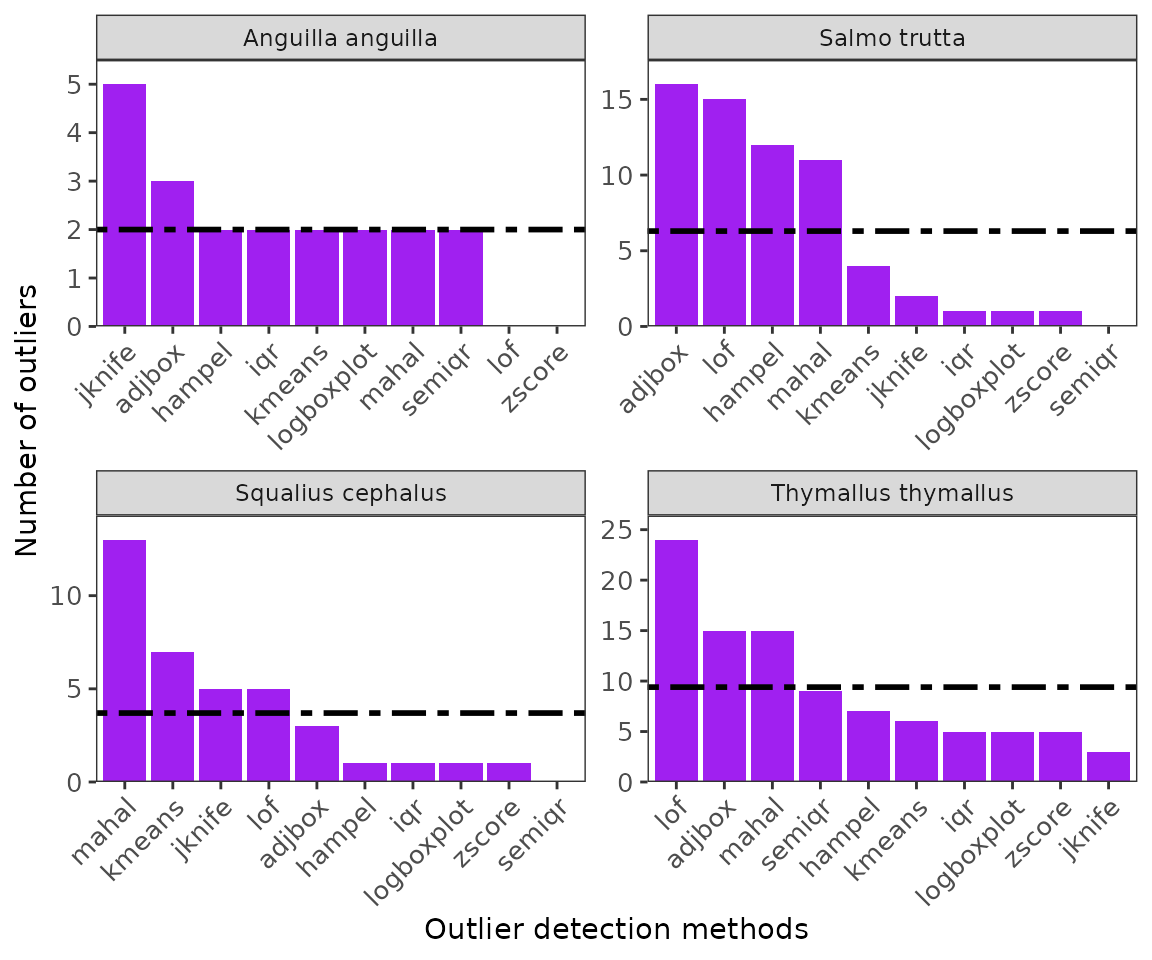
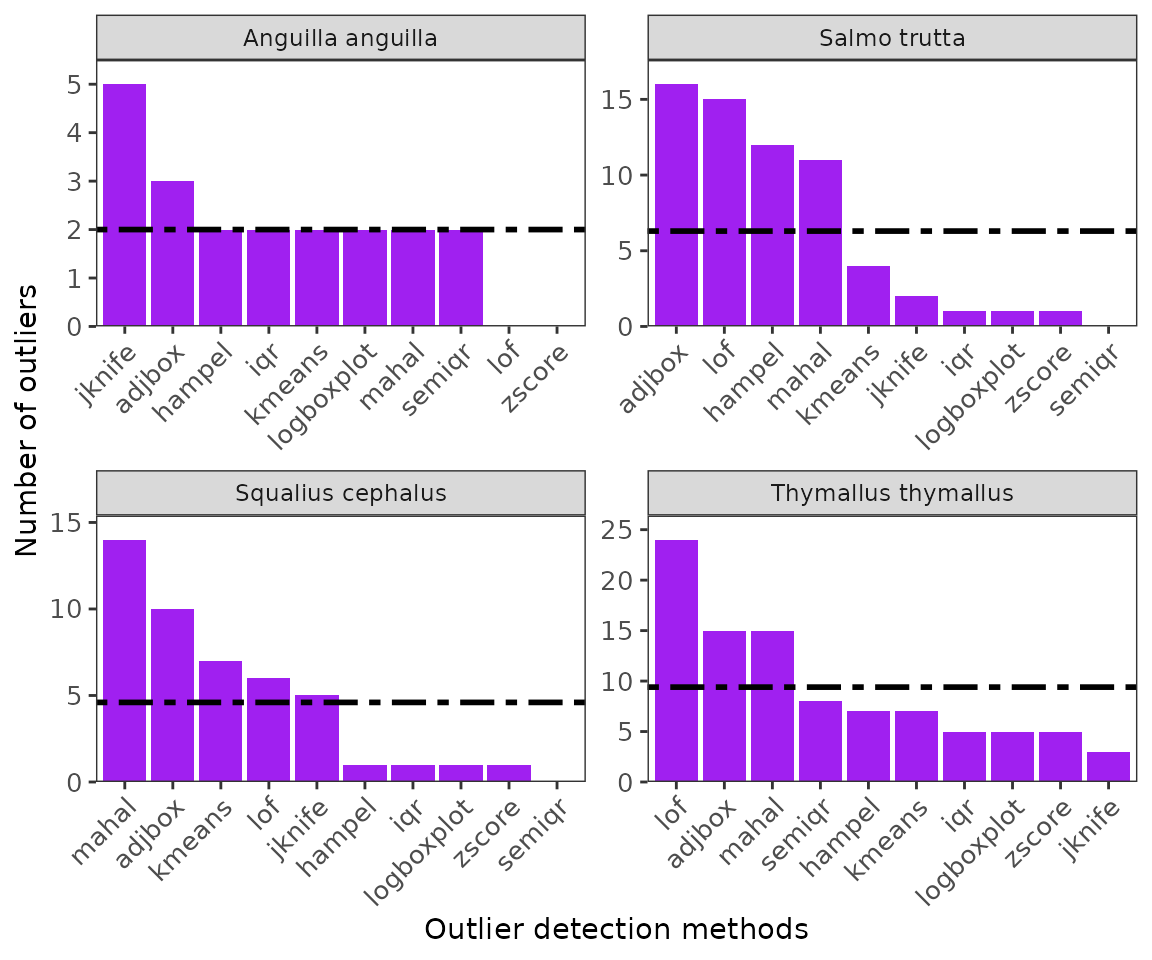
Deploying to gh-pages from @ AnthonyBasooma/specleanr@eeb31e080e6d23ea633081f10e0aac55a9a818ac 🚀

diff --git a/articles/eOutlier.html b/articles/eOutlier.html
@@ -152,7 +152,7 @@ names.</p>
 <span></span>
 <span><span class="co">#Species names are re-cleaned since the species names from vertnet are changed.</span></span>
 <span></span>
-<span><span class="va">cleannames_df</span> <span class="op">&lt;-</span> <span class="fu"><a href="../reference/check_names.html">check_names</a></span><span class="op">(</span>data <span class="op">=</span> <span class="va">mergealldfs</span>, colsp <span class="op">=</span> <span class="st">'species'</span>, pct <span class="op">=</span> <span class="fl">70</span>, </span>
+<span><span class="va">cleannames_df</span> <span class="op">&lt;-</span> <span class="fu"><a href="../reference/check_names.html">check_names</a></span><span class="op">(</span>data <span class="op">=</span> <span class="va">mergealldfs</span>, colsp <span class="op">=</span> <span class="st">'species'</span>, pct <span class="op">=</span> <span class="fl">90</span>, </span>
 <span>                             merge <span class="op">=</span> <span class="cn">TRUE</span>, verbose <span class="op">=</span> <span class="cn">TRUE</span><span class="op">)</span></span>
 <span><span class="co">#&gt; The synoynm Salmo trutta fario will be replaced with Salmo trutta.</span></span>
 <span><span class="co">#&gt; The synoynm Salmo trutta lacustris will be replaced with Salmo trutta.</span></span>
@@ -371,74 +371,74 @@ identifying the optimal threshold.</p>
 <span><span class="co">#&gt; 1 6.293614  8.755938 31.96181 690.1050 20.90625 -6.48875 27.39500  7.375333</span></span>
 <span><span class="co">#&gt; 2 4.385906  8.844812 34.54499 639.1041 17.86975 -7.73400 25.60375 12.208917</span></span>
 <span><span class="co">#&gt; 3 8.108875  8.424750 31.78192 689.7935 22.77525 -3.73275 26.50800 16.631666</span></span>
-<span><span class="co">#&gt; 4 6.023146 10.469084 36.15546 698.5480 21.37100 -7.58475 28.95575 12.989917</span></span>
-<span><span class="co">#&gt; 5 4.920063  8.054250 33.13006 620.0639 17.83550 -6.47550 24.31100 12.537000</span></span>
-<span><span class="co">#&gt; 6 4.414302  7.574229 32.06125 606.7263 17.16025 -6.46400 23.62425 11.899292</span></span>
+<span><span class="co">#&gt; 4 4.920063  8.054250 33.13006 620.0639 17.83550 -6.47550 24.31100 12.537000</span></span>
+<span><span class="co">#&gt; 5 6.023146 10.469084 36.15546 698.5480 21.37100 -7.58475 28.95575 12.989917</span></span>
+<span><span class="co">#&gt; 6 8.093719  8.563396 32.36844 682.8456 22.54375 -3.91225 26.45600 16.554874</span></span>
 <span><span class="co">#&gt;         bio9    bio10      bio11 bio12 bio13 bio14    bio15 bio16 bio17 bio18</span></span>
 <span><span class="co">#&gt; 1 -1.1756251 14.80313 -2.0642917  2118   241   105 21.73814   663   379   530</span></span>
 <span><span class="co">#&gt; 2 -2.4245417 12.20892 -3.3516667  1309   177    64 33.94616   495   216   495</span></span>
 <span><span class="co">#&gt; 3  0.9817083 16.63167 -0.3191667   798   102    43 30.42370   285   131   285</span></span>
-<span><span class="co">#&gt; 4 -1.6493334 14.52096 -2.6731668   825    92    48 19.36208   251   152   239</span></span>
-<span><span class="co">#&gt; 5 -1.7382917 12.53700 -2.4977083  1409   188    76 31.33461   524   257   524</span></span>
-<span><span class="co">#&gt; 6 -2.7298751 11.89929 -2.7298751  1289   169    67 33.19698   486   219   486</span></span>
+<span><span class="co">#&gt; 4 -1.7382917 12.53700 -2.4977083  1409   188    76 31.33461   524   257   524</span></span>
+<span><span class="co">#&gt; 5 -1.6493334 14.52096 -2.6731668   825    92    48 19.36208   251   152   239</span></span>
+<span><span class="co">#&gt; 6  1.0112917 16.55487 -0.2026250   902   111    48 29.86472   322   151   322</span></span>
 <span><span class="co">#&gt;   bio19         x        y      species</span></span>
 <span><span class="co">#&gt; 1   412 13.916667 46.25000 Salmo trutta</span></span>
 <span><span class="co">#&gt; 2   218 13.083333 47.25000 Salmo trutta</span></span>
 <span><span class="co">#&gt; 3   140  9.916667 48.25000 Salmo trutta</span></span>
-<span><span class="co">#&gt; 4   163 20.250000 43.25000 Salmo trutta</span></span>
-<span><span class="co">#&gt; 5   261 12.916667 47.58333 Salmo trutta</span></span>
-<span><span class="co">#&gt; 6   219 11.083333 47.41667 Salmo trutta</span></span>
+<span><span class="co">#&gt; 4   261 12.916667 47.58333 Salmo trutta</span></span>
+<span><span class="co">#&gt; 5   163 20.250000 43.25000 Salmo trutta</span></span>
+<span><span class="co">#&gt; 6   159 10.916667 48.25000 Salmo trutta</span></span>
 <span></span>
 <span><span class="va">ttclean</span><span class="op">&lt;-</span> <span class="fu"><a href="../reference/extract_clean_data.html">extract_clean_data</a></span><span class="op">(</span>refdata <span class="op">=</span> <span class="va">ttrefdata</span>, outliers <span class="op">=</span> <span class="va">ttoutlier</span>, loess <span class="op">=</span> <span class="cn">TRUE</span><span class="op">)</span></span>
 <span><span class="fu"><a href="https://rdrr.io/r/base/dim.html" class="external-link">dim</a></span><span class="op">(</span><span class="va">ttclean</span><span class="op">)</span></span>
 <span><span class="co">#&gt; [1] 101  21</span></span>
 <span><span class="fu"><a href="https://rdrr.io/r/utils/head.html" class="external-link">head</a></span><span class="op">(</span><span class="va">ttclean</span><span class="op">)</span></span>
 <span><span class="co">#&gt;       bio1     bio2     bio3     bio4     bio5     bio6     bio7     bio8</span></span>
-<span><span class="co">#&gt; 1 7.878094 8.124437 31.13259 684.2282 22.19500 -3.90125 26.09625 16.32617</span></span>
+<span><span class="co">#&gt; 1 8.130990 9.155687 33.54192 693.5986 22.50525 -4.79100 27.29625 16.58138</span></span>
 <span><span class="co">#&gt; 2 8.130990 9.155687 33.54192 693.5986 22.50525 -4.79100 27.29625 16.58138</span></span>
 <span><span class="co">#&gt; 3 8.340094 8.558521 31.95564 691.9463 23.15800 -3.62450 26.78250 15.38925</span></span>
-<span><span class="co">#&gt; 4 5.290083 8.268625 33.26678 635.7107 18.46425 -6.39125 24.85550 13.10142</span></span>
+<span><span class="co">#&gt; 4 7.878094 8.124437 31.13259 684.2282 22.19500 -3.90125 26.09625 16.32617</span></span>
 <span><span class="co">#&gt; 5 8.130990 9.155687 33.54192 693.5986 22.50525 -4.79100 27.29625 16.58138</span></span>
-<span><span class="co">#&gt; 6 5.290083 8.268625 33.26678 635.7107 18.46425 -6.39125 24.85550 13.10142</span></span>
-<span><span class="co">#&gt;         bio9    bio10       bio11 bio12 bio13 bio14    bio15 bio16 bio17 bio18</span></span>
-<span><span class="co">#&gt; 1  0.7570000 16.32617 -0.47941664   821   102    49 25.64842   279   148   279</span></span>
-<span><span class="co">#&gt; 2  0.9313333 16.58138 -0.41912505  1307   174    69 33.66177   499   233   499</span></span>
-<span><span class="co">#&gt; 3  1.1871250 16.93192 -0.08562502   789    97    44 28.08648   274   136   274</span></span>
-<span><span class="co">#&gt; 4 -1.4955000 13.10142 -2.34583330  1440   193    76 31.47408   536   261   536</span></span>
-<span><span class="co">#&gt; 5  0.9313333 16.58138 -0.41912505  1307   174    69 33.66177   499   233   499</span></span>
-<span><span class="co">#&gt; 6 -1.4955000 13.10142 -2.34583330  1440   193    76 31.47408   536   261   536</span></span>
+<span><span class="co">#&gt; 6 8.688948 8.375896 30.39067 733.9625 23.53350 -4.02725 27.56075 17.66537</span></span>
+<span><span class="co">#&gt;        bio9    bio10       bio11 bio12 bio13 bio14    bio15 bio16 bio17 bio18</span></span>
+<span><span class="co">#&gt; 1 0.9313333 16.58138 -0.41912505  1307   174    69 33.66177   499   233   499</span></span>
+<span><span class="co">#&gt; 2 0.9313333 16.58138 -0.41912505  1307   174    69 33.66177   499   233   499</span></span>
+<span><span class="co">#&gt; 3 1.1871250 16.93192 -0.08562502   789    97    44 28.08648   274   136   274</span></span>
+<span><span class="co">#&gt; 4 0.7570000 16.32617 -0.47941664   821   102    49 25.64842   279   148   279</span></span>
+<span><span class="co">#&gt; 5 0.9313333 16.58138 -0.41912505  1307   174    69 33.66177   499   233   499</span></span>
+<span><span class="co">#&gt; 6 1.0729584 17.66537 -0.34283331  1053   134    61 24.62582   361   206   361</span></span>
 <span><span class="co">#&gt;   bio19         x        y</span></span>
-<span><span class="co">#&gt; 1   158  9.916667 48.41667</span></span>
+<span><span class="co">#&gt; 1   234 13.083333 47.75000</span></span>
 <span><span class="co">#&gt; 2   234 13.083333 47.75000</span></span>
 <span><span class="co">#&gt; 3   145 10.083333 48.41667</span></span>
-<span><span class="co">#&gt; 4   266 13.250000 47.58333</span></span>
+<span><span class="co">#&gt; 4   158  9.916667 48.41667</span></span>
 <span><span class="co">#&gt; 5   234 13.083333 47.75000</span></span>
-<span><span class="co">#&gt; 6   266 13.250000 47.58333</span></span>
+<span><span class="co">#&gt; 6   207 13.916667 48.08333</span></span>
 <span></span>
 <span></span>
 <span><span class="va">labeldata</span> <span class="op">&lt;-</span> <span class="fu"><a href="../reference/classify_data.html">classify_data</a></span><span class="op">(</span>refdata <span class="op">=</span> <span class="va">multipreclened</span>, outliers <span class="op">=</span> <span class="va">multioutliers</span><span class="op">)</span></span>
 <span><span class="fu"><a href="https://rdrr.io/r/utils/head.html" class="external-link">head</a></span><span class="op">(</span><span class="va">labeldata</span><span class="op">)</span></span>
 <span><span class="co">#&gt;        bio1     bio2     bio3     bio4     bio5     bio6     bio7     bio8</span></span>
-<span><span class="co">#&gt; 5  4.920063 8.054250 33.13006 620.0639 17.83550 -6.47550 24.31100 12.53700</span></span>
-<span><span class="co">#&gt; 6  4.414302 7.574229 32.06125 606.7263 17.16025 -6.46400 23.62425 11.89929</span></span>
-<span><span class="co">#&gt; 8  7.020875 8.222834 31.93085 667.1943 21.05575 -4.69625 25.75200 13.63171</span></span>
+<span><span class="co">#&gt; 4  4.920063 8.054250 33.13006 620.0639 17.83550 -6.47550 24.31100 12.53700</span></span>
 <span><span class="co">#&gt; 9  6.611198 7.958354 32.70937 624.9371 19.68450 -4.64600 24.33050 14.33846</span></span>
 <span><span class="co">#&gt; 10 8.149062 8.922417 32.77950 698.9550 22.49275 -4.72675 27.21950 16.66454</span></span>
 <span><span class="co">#&gt; 11 5.519271 8.059958 32.46808 637.3926 18.68325 -6.14100 24.82425 13.31675</span></span>
-<span><span class="co">#&gt;           bio9    bio10      bio11 bio12 bio13 bio14    bio15 bio16 bio17 bio18</span></span>
-<span><span class="co">#&gt; 5  -1.73829174 12.53700 -2.4977083  1409   188    76 31.33461   524   257   524</span></span>
-<span><span class="co">#&gt; 6  -2.72987509 11.89929 -2.7298751  1289   169    67 33.19698   486   219   486</span></span>
-<span><span class="co">#&gt; 8  -0.03137497 15.23754 -1.0941666   900   112    55 25.05974   304   170   304</span></span>
-<span><span class="co">#&gt; 9  -0.81683332 14.33846 -0.8168333  1324   181    66 38.16012   524   210   524</span></span>
-<span><span class="co">#&gt; 10  0.85704178 16.66454 -0.4938749  1223   159    66 32.25150   460   222   460</span></span>
-<span><span class="co">#&gt; 11 -1.28370821 13.31675 -2.1408334  1303   177    70 33.05493   494   233   494</span></span>
-<span><span class="co">#&gt;    bio19         x        y       label       groups</span></span>
-<span><span class="co">#&gt; 5    261 12.916667 47.58333 not outlier Salmo trutta</span></span>
-<span><span class="co">#&gt; 6    219 11.083333 47.41667 not outlier Salmo trutta</span></span>
-<span><span class="co">#&gt; 8    177  9.416667 48.25000 not outlier Salmo trutta</span></span>
-<span><span class="co">#&gt; 9    210 11.083333 47.58333 not outlier Salmo trutta</span></span>
-<span><span class="co">#&gt; 10   222 13.083333 47.91667 not outlier Salmo trutta</span></span>
-<span><span class="co">#&gt; 11   236 12.583333 47.58333 not outlier Salmo trutta</span></span></code></pre></div>
+<span><span class="co">#&gt; 12 8.130990 9.155687 33.54192 693.5986 22.50525 -4.79100 27.29625 16.58138</span></span>
+<span><span class="co">#&gt; 15 6.954854 8.379916 30.44364 722.8362 21.85250 -5.67350 27.52600 15.76013</span></span>
+<span><span class="co">#&gt;          bio9    bio10      bio11 bio12 bio13 bio14    bio15 bio16 bio17 bio18</span></span>
+<span><span class="co">#&gt; 4  -1.7382917 12.53700 -2.4977083  1409   188    76 31.33461   524   257   524</span></span>
+<span><span class="co">#&gt; 9  -0.8168333 14.33846 -0.8168333  1324   181    66 38.16012   524   210   524</span></span>
+<span><span class="co">#&gt; 10  0.8570418 16.66454 -0.4938749  1223   159    66 32.25150   460   222   460</span></span>
+<span><span class="co">#&gt; 11 -1.2837082 13.31675 -2.1408334  1303   177    70 33.05493   494   233   494</span></span>
+<span><span class="co">#&gt; 12  0.9313333 16.58138 -0.4191251  1307   174    69 33.66177   499   233   499</span></span>
+<span><span class="co">#&gt; 15 -0.7949167 15.76013 -2.0100417   806   113    38 38.67074   311   118   311</span></span>
+<span><span class="co">#&gt;    bio19        x        y       label       groups</span></span>
+<span><span class="co">#&gt; 4    261 12.91667 47.58333 not outlier Salmo trutta</span></span>
+<span><span class="co">#&gt; 9    210 11.08333 47.58333 not outlier Salmo trutta</span></span>
+<span><span class="co">#&gt; 10   222 13.08333 47.91667 not outlier Salmo trutta</span></span>
+<span><span class="co">#&gt; 11   236 12.58333 47.58333 not outlier Salmo trutta</span></span>
+<span><span class="co">#&gt; 12   234 13.08333 47.75000 not outlier Salmo trutta</span></span>
+<span><span class="co">#&gt; 15   131 18.08333 49.41667 not outlier Salmo trutta</span></span></code></pre></div>
 <p><strong>References</strong> 1. Wieczorek, J., Bloom, D., Guralnick,
 R., Blum, S., Döring, M., Giovanni, R., Robertson, T., &amp; Vieglais,
 D. (2012). Darwin core: An evolving community-developed biodiversity
